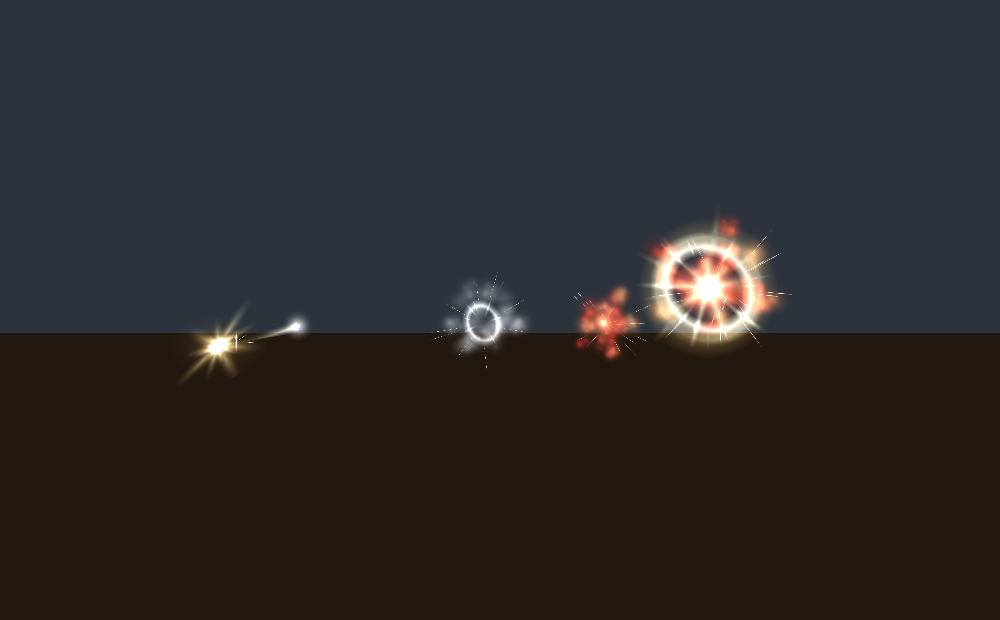
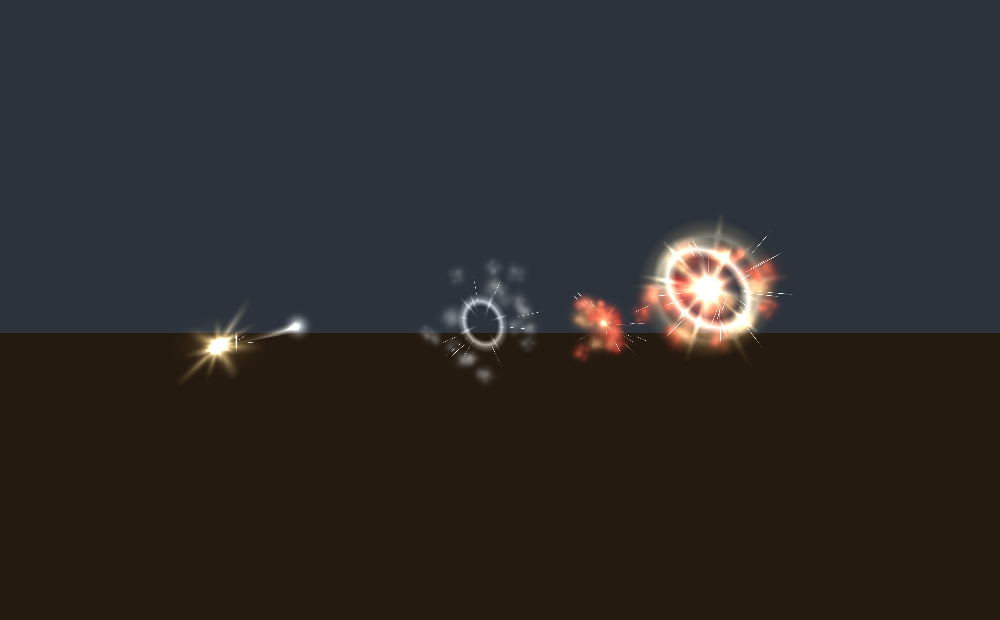
テクスチャ／VFX：作業途中のスナップショット（担当2体が稼働中）
テクスチャ：錆の構造の作り直しと、壁面のタイリング反復の抑制を作業中。
VFX：マズルフラッシュがレティクルを覆う問題と、着弾3種の読み分けを作業中。

いずれも構文は通っているが、担当自身の検証は未完了。
中間状態を失わないためのコミットであり、完成の宣言ではない。

Claude-Session: https://claude.ai/code/session_01WWzq8eyFFA5BGV3pj9UJTc

Changed region(s): [[0.403, 0.3371, 0.806, 0.6129]]

diff --git a/ashline/art/vfx.js b/ashline/art/vfx.js
@@ -878,30 +878,36 @@
       E.ttl = 0.085; E.grow = 0.36; E.a0 = 0.8; E.fade = 1.2;
       emit(ADD);
 
-      /* 2層目：粉塵の噴出。法線まわり ±40° の狭い円錐＝縦に立つプルーム。
-         ここでいちばん重要なのは「初期サイズ」。1フレーム目に見えるのは
-         ほぼ s0 なので、s0 が小さいと着弾の瞬間が点にしかならない。
-         発生位置も法線方向にばらけさせて、最初の1枚から塊にする。 */
-      for (i = 0; i < 18; i++) {
-        /* 芯を 0.34rad 抜く＝狙点の真上に粉塵を置かない。
-           噴出は「面から円錐状に舞い上がる」ものなので、
-           芯を抜いても現象としては嘘にならない。 */
-        cone(0.92, 0.55, 0.34);
-        o = rr(0.10, 0.50);
-        sv = rr(2.4, 6.4);
+      /* 2層目：粉塵の噴出。
+         -----------------------------------------------------------------
+         円錐の芯を角度で抜くだけでは穴が開かない。粒の半径（0.13〜0.22m）が
+         穴の半径より大きいと、粒自身が中心を塗り潰してしまうため。
+         そこで接平面上の「半径 R の輪」から発生させ、外向き＋法線方向へ飛ばす。
+         これは実際の着弾でできる王冠状の噴出そのものなので、
+         狙点を空けるための都合が、そのまま正しい現象の形になっている。 */
+      var rc, rs, tx, ty, tz;
+      for (i = 0; i < 16; i++) {
+        rc = rnd() * 6.283;
+        tx = uX * Math.cos(rc) + wX * Math.sin(rc);
+        ty = uY * Math.cos(rc) + wY * Math.sin(rc);
+        tz = uZ * Math.cos(rc) + wZ * Math.sin(rc);
+        rs = rr(0.34, 0.66);            // 輪の半径。粒の半径より必ず大きく取る
+        o = rr(0.04, 0.26);             // 面から浮かす量
+        sv = rr(2.0, 4.6);              // 法線方向（立ち上がり）
+        var so = rr(1.4, 3.4);          // 外向き（広がり）
         reset();
-        E.x = x + dX * o; E.y = y + dY * o; E.z = z + dZ * o;
-        E.vx = dX * sv; E.vy = dY * sv + 0.7; E.vz = dZ * sv;
+        E.x = x + tx * rs + nX * o; E.y = y + ty * rs + nY * o; E.z = z + tz * rs + nZ * o;
+        E.vx = nX * sv + tx * so; E.vy = nY * sv + ty * so + 0.7; E.vz = nZ * sv + tz * so;
         E.tile = (i % 2) ? TILE_PUFF : TILE_PUFF2;
         E.rot = rnd() * 6.283; E.rotv = (rnd() - 0.5) * 2.2;
         /* 半分を青灰に寄せる。命中側（赤）との対比は明度ではなく色相で付ける。
            純白のままだと、暗い画面では致命打の白熱コアと同じ「白」に見える。 */
         tint((i % 2) ? COL.dustCool : COL.dust, rr(0.85, 1.15));
-        sizeU(rr(0.26, 0.44), rr(0.74, 1.12));
+        sizeU(rr(0.22, 0.34), rr(0.62, 0.96));
         E.ttl = rr(0.45, 0.80); E.grow = 0.42; E.drag = 4.6; E.grav = 0.9;
         /* 不透明度も抑える。粉塵は「厚み」で見せるもので、
            1粒で壁を作るものではない。重なって初めて雲になればよい。 */
-        E.a0 = rr(0.30, 0.52); E.fade = 1.6;
+        E.a0 = rr(0.28, 0.48); E.fade = 1.6;
         emit(ALP);
       }
       /* 壁面を這う粉。プルームの根元を面に接地させる。 */
@@ -928,10 +934,11 @@
          白い粉塵の中に白い火花を置くと同化して消える。初期位置を雲の外へ出し、
          長さも雲の半径を超えるところまで伸ばして、輪郭から突き出させる。 */
       for (i = 0; i < 11; i++) {
-        cone(1.28, 0.55, 0.40);
+        cone(1.28, 0.55, 0.52);
         sv = rr(9.0, 19.0);
         reset();
-        E.x = x + dX * 0.26; E.y = y + dY * 0.26; E.z = z + dZ * 0.26;
+        /* 火花も狙点の真上から出さない。0.30m 外へずらす。 */
+        E.x = x + dX * 0.30; E.y = y + dY * 0.30; E.z = z + dZ * 0.30;
         E.vx = dX * sv; E.vy = dY * sv + 0.8; E.vz = dZ * sv;
         E.tile = TILE_STREAK; E.align = 1.0;
         tint(COL.coldSpark, rr(1.0, 1.5));

diff --git a/ashline/art/tex.js b/ashline/art/tex.js
@@ -927,12 +927,12 @@
           /* 目地。実機では目地が濃すぎて「黒い格子」に見え、それが反復の正体に
              なっていた。落とす明度は控えめにし、下唇の白も弱める。 */
           lerp3(cJ, cBD, 0.35 + 0.45 * det[i], out);
-          scl(out, 0.82);
+          scl(out, 0.74);
           if (by < jh * 0.55) lerp3(out, cSh, 0.42, out);
           if (by > 1 - jh * 0.30) lerp3(out, cAsh, 0.16, out);
         } else {
           lerp3(cBD, cBL, sat((det[i] * 0.42 + big[i] * 0.58 - 0.18) / 0.62), out);
-          scl(out, 0.80 + 0.40 * hv);
+          scl(out, 0.76 + 0.50 * hv);
           /* 煉瓦1個ごとの色温度差。焼きムラで灰寄りのものと赤寄りのものが混じる。
              これが無いと面が平坦になり「陶タイル」に見える。 */
           lerp3(out, toRGB(mix(BR, P.ash, 0.55), [0, 0, 0]), h2(col, row, 41) * 0.55, out);
@@ -953,7 +953,7 @@
             smoothstep(1 - jw - 0.024, 1 - jw, bx)) * 0.20, out);
         }
         /* 煤：煉瓦の割付を無視して縦に走る。格子の反復を断ち切る役目も持つ。 */
-        lerp3(out, cSh, sat(soot[i] * 1.5 - 0.62) * 0.55, out);
+        lerp3(out, cSh, sat(soot[i] * 1.6 - 0.58) * 0.70, out);
         /* マクロむら：目地の格子より低い周波数で、明暗の両方向に振る。
            乗算だけだと平均が落ちて実機で真っ黒になる（一度そうなった）。 */
         scl(out, 0.88 + 0.24 * macro[i]);
@@ -1247,7 +1247,7 @@
       /* 低周波の濃淡。タイル1枚ぶんの周期でむらを作り、粒の周期を目立たなくする。 */
       blend(o, greyCanvas(S, ctr(fbm2(S, 6, 4, 4, 6969), 1.4, 0.5), 0.70, 1.08), 'multiply', 0.45);
       blend(o, greyCanvas(S, fbm(S, 200, 2, 1414), 0.0, 1.0), 'overlay', 0.10);
-      dull(o, P.ash, 0.28);                       // 最後に必ず濁らせる
+      dull(o, P.ash, 0.34);                       // 最後に必ず濁らせる
       return o;
     }
 
